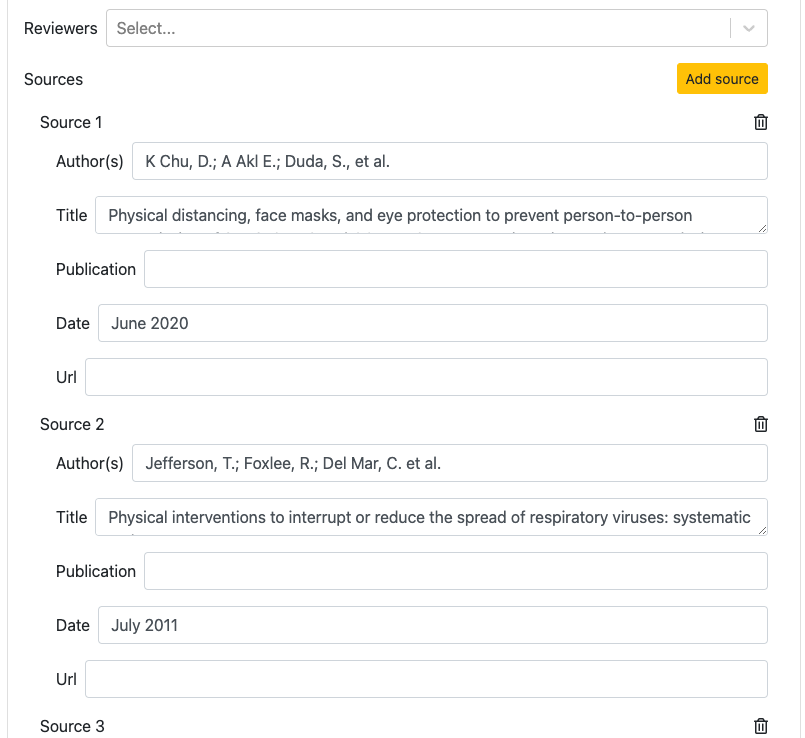
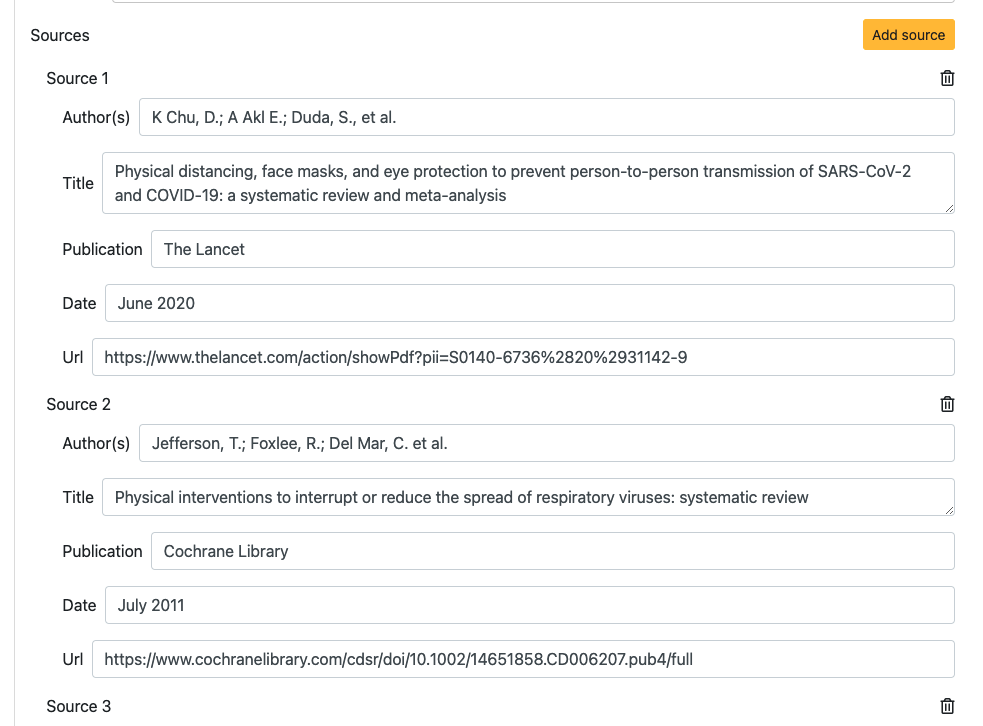
Update checklist and sources

diff --git a/docs/generalTips/trello/reviewing/checklist.rst b/docs/generalTips/trello/reviewing/checklist.rst
@@ -1,23 +1,163 @@
 .. _checklist:
 
 Checklist
-=====================
+=========
 
-Before sending a calculator to review, make sure to **complete all necessary tasks from the checklist**. By doing so, we ensure that all key elements of a calculator are done.
+Before sending a calculator to review, make sure to **complete all necessary tasks on each checklist**. By doing so, we ensure that all key elements of a calculator are completed to our specification.
 
-Most of the tasks are self-explanatory, so here is the list of less obvious ones:
+Please make sure that each requirement is completely fulfilled, as your review will not be checking every single one. If the reviewer does spot a checklist item that hasn't been correctly implemented, they will call out the item and you should fix it. Of course, if you need more help, ask the reviewer.
 
-1. **Mobile device check** — Open the **calculator web page on your mobile device** to check if all the labels are **well-displayed**, you can input values in every field, choose any option from every **Value Select**, and see if any additional HTML output is **legible and fits the screen**. Also, skim the text and make sure all the **equations and pictures displays fine**. 
-2. **Additional text to proofread?** — If you display some text message or the combination of sentences **with customJS**, check this option. You can also mention about all possible calculator outcomes to make the proofreader's life easier.
-3. **VPN check** — if you're using different default metric and imperial units, check this task. One of possible ways to do so:
-   
-  1. Open Opera browser.
-  2. Go to **incognito mode** (``Ctrl`` + ``Shift`` + ``n``).
-  3. Click the *VPN* button on the search bar.
-  4. Connect with the VPN.
-  5. If you're using **metric units by default - set US as the virtual location**, if you're using **imperial units by default - set Europe**.
-  6. Open calculator's web page.
-  7.  Check if everything works as it should.  
-   
-4.  **FAQ** — add **at least 4** Question-Answer pairs (ideally 5-7) according to the :ref:`FAQ guide <faqGuide>`.
-5.  **Name the revision that should be checked "to review"** — In the revisions section of the edit calculator page, :ref:`name the revision <revisionsNameARevision>` you wish your reviewer to assess, "To review" (or include those words).
+Make sure all of the details of each item are correct by clicking on the info icon ℹ to go to the relevant page in the documentation. If an item doesn't apply to your calculator, check it off anyway.
+
+There are four checklists for different aspects of the calculator:
+
+.. contents:: :local:
+  :depth: 1
+
+Calculator checklist
+--------------------
+
+This checklist focuses on creating the calculator correctly on the edit calculator page. Below is each item in the check list with additional comments.
+
+* **Name formatting** – *Only capitalize the first word* – :ref:`ℹ<detailsName>`
+  
+  Properly formatting the name of your calculator is important because it is used on the website as the link text to related calculators.
+
+* **Slug formatting** – :ref:`ℹ<detailsSlug>`
+  
+  Make sure you follow Omni's slug formatting rules.
+
+* **Add specific sources** – Follow these rules → :ref:`ℹ<detailsSources>`
+
+  Add any specific sources that were used in the making of the calculator. There is no need to add general math, physics, etc., sources. Rather, if the calculator is largely based on a particular research paper, then add it as a source. For SciComm calculators, this is particularly important to gain creditability. 
+
+* **Category & subcategory** – *Find the best combination for your calculator* - :ref:`ℹ<detailsCategory>`
+  
+  Look to see if there is a subcategory that fits your calculator rather than setting the category to *Other*.
+
+* **Variables** – *Commonsense units* – *Imperial default value required?* – *Base unit set if value setter used* – *Auto save?*
+  
+  Choose variable units that make sense for how the calculator will be used. If you set any default values and specify an imperial default unit, you also need to set an imperial default value. If you use a value setting on a variable, the base unit needs to be explicitly set (even if default base unit is used). Would it make sense to auto save the value for the next time the user visits (e.g., age, height, etc)?
+
+* **Calculator working and you've checked results against other calculators on the web + commonsense results**
+
+  Check for a range of values your calculator against others on the web (though some of those could be incorrect). Do the results make sense? Are the values produced what you expect?
+
+* **Test(s) added and working properly** – *Check this again just before review* – :ref:`ℹ<tests>`
+
+  Use the tests to double check that any changes you make later to the calculator are still giving valid result. Before submitting the calculator for review, double-check that all tests are still passed.
+
+* **Screenshot** – *One test should be a screenshot* – :ref:`ℹ<testsScreenshot>`
+
+  A screenshot is important as a preview for the embedding feature. Ensure all the calculators values are populated in a screenshot test and set any required calculator options.
+
+* **Imperial units (if used)** – *Check calculator works with imperial units box checked on www* – :ref:`ℹ<buttonsOverwrite>`
+
+  You should check whether the calculator still gives the expected results if viewed from a country that users imperial units.
+
+* **Images have alt text** – :ref:`ℹ<addhtml>`
+
+  All images should have alterative text in case the image can't load, for screen readers and it's good for SEO.
+
+* **CustomJS code** – *No red warnings*
+
+  Resolve all red warnings in your customJS code. Common fixes: Use ``===`` instead of ``==``; expand ``if`` statements with curly brackets; only declare a variable once; use all declared variables; don't use ES6 JavaScript features (note that only the first use of an ES6 is marked with red underlining).
+
+* **Inputs check** – *Experiment inputting zeros, negative numbers, larger and small numbers, etc. Avoid NaN & infinity outputs, crashing of the www page, and console log errors*
+
+  Test your calculator as much as possible before submitting it for review.
+
+
+Text checklist
+--------------
+
+* **Title** – *Main keyword & formatted correctly* – :ref:`ℹ<titleTitle>`
+
+  We want to have a consistent title format for all our calculators.
+
+* **SEO title** - *Usual same as title; not too long* – :ref:`ℹ<titleSEO>`
+
+  Always start with the title, then optionally add another high-traffic keyword after a separator (e.g., a ``-``, ``|``). Not too long though (BB will tell you if it is), otherwise Google will truncate it.
+
+* **Text ready and of suitable length** - *Min 500 words, max 2,000* :ref:`ℹ<textLength>`
+
+  Don't feel you have to write about the subject surrounding the calculator in great detail. Your focus should be on what the calculator does, what is it based on, how to use it, and an example manual calculation. We also have a great number of texts in other calculators that you can link to, to save you repeating content.
+
+* **Grammarly check** – *Review all suggestions to catch errors and improve your text* – :ref:`ℹ<grammarly>`
+
+  Grammarly will underline in red any spelling mistakes or critical errors. Don't forget to also click on the icon in the bottom-right of a text block to see all the Grammarly suggestions on how to improve your writing. You don't have to accept them (sometimes Grammarly misunderstands the text), but at least consider them.
+
+* **Images must have alt text** – *Omni © checkbox ticked for original graphics* – :ref:`ℹ<textEditorImageBlockAltText>`
+
+  All images should have alterative text in case the image can't load, for screen readers and it's good for SEO. Also, if you or the graphics department has created an image, you should tick the Omni © checkbox.
+
+* **Lists formatted correctly** – :ref:`ℹ<textStylingGuideLists>` – *Variable lists* – :ref:`ℹ<equationsAndVariables>`
+
+  Make sure lists are correctly formatted, especially the variable list after an equation.
+
+* **Keywords** – *6 to ~11* – :ref:`ℹ<keywords>` – *Use SEMrush filters when selecting* - :ref:`ℹ<filters>`
+
+  Including the main keyword, aim to have a total of 6 to around 11 keywords. To few and your text will not be attractive to Google. However, too many and the text will be hard to write in a reasonable length. If you find lots of keywords for your calculator, focus on those with the most traffic and use filters to weed out non-relevant keywords.
+
+* **Acronyms expanded correctly** – :ref:`ℹ<textStylingGuideCapitalization>`
+
+  Make sure any acronyms you use are expanded and explained at least once in the text. Note that the expansion doesn't need to be capitalized unless the acronym is a proper noun (the name of something, like NASA).
+
+* **LaTeX equations should follow these rules** → :ref:`ℹ<textEditorFormulaBlockLaTexFormatting>`
+  
+  LaTeX equations should be consistent throughout a single text. They should never be wider than the mobile preview in the BB text editor. Click the link above for the full set of LaTeX formatting rules.
+
+* **Internal links** – 4+ – *If a calculator is not published (grey in color), check if it will be soon* – :ref:`ℹ<internalLinks>`
+
+  Include at least 4 internal links to other calculators. Generally the more the better, but consider if the user would expect to end up where you send them.
+
+* **Example calculations in the text must agree with the calculator** – *Any discrepancies will confuse the user*
+
+  When presenting a manually calculated example of the calculator, make sure that the answer agrees with what the calculator gives.
+
+* **Global SEO score must be 5/5** – *Unless our SEO scorer isn't smart enough* – :ref:`ℹ<globalSEO>`
+
+  Please try to get a perfect score in the global SEO score tab. However, if you feel that the SEO scorer isn't giving you the proper credit, you may add a comment to the card explaining the issue to the reviewer.
+
+* **Check for formatting errors** – *Look at www page and read through the whole text* – :ref:`ℹ<textStylingGuide>`
+
+  View the text in the final www page format and check for any formatting issues. Is everything as you expect? Also, read through the text slowing to check for any other issues. A nice way to do this is by using a text-to-speech program or browser extension. That way, any mistakes will sound bad when read aloud.
+
+FAQ checklist
+-------------
+
+* **At least four questions**
+
+  The more a calculator has, the better the chances that Google will select one as a featured snippet or FAQ.
+
+* **At least one instruction-type answer** – :ref:`ℹ<faqStructure>`
+
+  Google really likes instruction-based answers to an FAQ.
+
+* **At least one question with a specific answer** – *e.g, "What is 10% of 30?"* – :ref:`ℹ<faqStructure>`
+
+  Google likes an FAQ that has a specific answer.
+
+* **Answer/keyword in the first sentence** – :ref:`ℹ<faqStructure>`
+
+  Ideally you want to give the answer to the question (or the keyword) as soon as you can.
+
+* **Within word and item minimums & maximums** – :ref:`ℹ<faqWordCount>`
+
+  Check that you are with the word and item minimum and maximums mentioned in the link above.
+
+* **No images, no links, no LaTeX**
+
+  Google doesn't support image, links or LaTeX in FAQ answers. You should also use ``×`` as a multiplication sign, instead of ``*``.
+
+* **Question and answers are written how they'd be spoken and prefer lists over paragraphs** – :ref:`ℹ<faqStructure>`
+
+  FAQ content is often used for Google Assistant answers and Google prefers list-based answers over paragraphs.
+  
+Review process checklist
+------------------------
+
+* Add the **website URL** of your calculator (not BB URL) to the Trello card description.
+* Name the revisions (calculator & text) that should be reviewed as "to review".
+* Click the 'First review' button and **add** your reviewer to the card.
+* After publication, **add** at least 3 links in old calculators - :ref:`ℹ<internalLinks>`

diff --git a/docs/generalTips/calculatorStructure/details.rst b/docs/generalTips/calculatorStructure/details.rst
@@ -86,12 +86,14 @@ Reviewers
 
 Reviewers and proofreaders should add their name to this field. Your name will be added underneath the author list and appear as "Reviewed by Your Name". This will help us show Google that we are a website that takes quality seriously.
 
+.. _detailsSources:
+
 Sources
 -------
 
 Here you can add details of any research papers or other external sources that the calculator is based upon. This is good for users and Google to increase own trustworthiness. You only need to add sources where you've directly based the calculator on one or more particular sources. There is no need to add sources to all calculators or go looking for sources.
 
-.. _detailsSources:
+.. _detailsSourcesEg:
 .. figure:: details-sources.png
   :width: 100%
   :alt: example of the sources section of the edit calculator page
@@ -104,17 +106,19 @@ Click the **Add source** button and a form will appear with the following input 
 * Authors(s)
    * List the authors of the source.
 * Title
-   * The title of the source (required)
+   * The title of the source (required).
 * Publication
-   * The name of the publication, journal, website, etc.
+   * The name of the publication, journal, website, etc. **DO NOT** enter a URL here. It will look ugly and the user can't click on it.
 * Date
-   * Publication date, but it's just a string. Use a date format that isn't confusing.
+   * Publication date, but the input field is a string. Use a date format that isn't confusing (e.g., June 2021).
 * Url
-   * Link to the publication, if it is available online.
+   * Link to the publication, if it is available online. **DO NOT** link to an external file store (e.g., Dropbox).
 
 If you have more than one source, click the **Add source** button again.
 
 To delete a source, click on the trash can icon.
+
+.. _detailsCategory:
 
 Category and subcategory
 ------------------------

diff --git a/docs/generalTips/calculatorStructure/tests.rst b/docs/generalTips/calculatorStructure/tests.rst
@@ -1,7 +1,7 @@
 .. _tests:
 
 Tests
-=====================
+=====
 
 The **Tests** section allows you to set-up tests for your calculator. This is useful for double checking that your calculator gives the correct result and to check that any future changes you make still give the same correct result.
 
@@ -39,6 +39,8 @@ Specifying values in different units
 If you want to give any values in units that are not in the default unit of the variable, you can use the command **Select unit**. Then choose the variable and the unit you would like to use.
 
 Then when you specify the **Input/Expect** value, the number should be given in the unit you selected above.
+
+.. _testsScreenshot:
 
 Taking a screenshot
 -------------------

diff --git a/docs/generalTips/textStructure/editCalculatorText/title.rst b/docs/generalTips/textStructure/editCalculatorText/title.rst
@@ -12,6 +12,8 @@ Title and SEO title
 
 The **title** and **SEO title** input fields are two of the most important settings on the text editor page. Let's look at each one in detail.
 
+.. _titleTitle:
+
 Title
 -----
 
@@ -30,6 +32,8 @@ Here are some points to considered when choosing a title for your calculator:
 *Examples of good titles ✔:* ROI Calculator – Return on Equity, Pressure at Altitude Calculator, Length Converter.
 
 *Examples of bad titles ❌:* Return on Equity (ROI) calculator, Pressure at altitude, Length Converter Calculator.
+
+.. _titleSEO:
 
 SEO title
 ---------

diff --git a/docs/generalTips/textStructure/editCalculatorText/textEditor/formulaBlock.rst b/docs/generalTips/textStructure/editCalculatorText/textEditor/formulaBlock.rst
@@ -67,6 +67,8 @@ A common situation is that you are working through a calculation and you would l
 
 The ``\\`` starts a new line and the ampersand ``&`` tells LaTeX that we want to align the two formulas on the equals sign. If the equations are too close together, you can add an extra blank line by adding another ``\\`` at the end of an equation.
 
+.. _textEditorFormulaBlockLaTexFormatting:
+
 LaTeX formatting rules
 ----------------------
 

diff --git a/docs/generalTips/calculatorPage/buttons.rst b/docs/generalTips/calculatorPage/buttons.rst
@@ -30,6 +30,8 @@ Page age
 
 After the list of links, information about **when the page was generated** is shown. This is so you know whether you are looking at a version of the calculator that includes the changes you just made, or an old version. Try **reloading the page** to get the latest version (this can take ~10 minutes).
 
+.. _buttonsOverwrite:
+
 Overwrite locale data
 ---------------------
 

diff --git a/docs/generalTips/textStructure/editCalculatorText/textEditor/imageBlock.rst b/docs/generalTips/textStructure/editCalculatorText/textEditor/imageBlock.rst
@@ -35,6 +35,8 @@ Click on the three-dot icon to display the options menu for an image block, whic
 .. note::
   **Please only use an image block to add an image to your text.** Use of Markdown and HTML have been deprecated.
 
+.. _textEditorImageBlockAltText:
+
 Alt text
 --------
 

diff --git a/docs/generalTips/textStructure/textStylingGuide/equations.rst b/docs/generalTips/textStructure/textStylingGuide/equations.rst
@@ -13,7 +13,7 @@ The variables should be listed as **bullet points**, with the variables also sur
 
 .. _equations_example1:
 .. figure:: equations_example1.jpg
-   :scale: 70%
+   :scale: 80%
    :alt: An ideal equation
    :align: center
 

diff --git a/docs/generalTips/semrush/keywordMagicTool/filters.rst b/docs/generalTips/semrush/keywordMagicTool/filters.rst
@@ -1,7 +1,7 @@
 .. _filters:
 
 Filters
-=====================
+=======
 
 .. _semrushFilters:
 .. figure:: semrush_filters.png

diff --git a/docs/generalTips/textStructure/textStylingGuide/capitalisation.rst b/docs/generalTips/textStructure/textStylingGuide/capitalisation.rst
@@ -1,3 +1,6 @@
+.. _textStylingGuideCapitalization:
+
+
 Capitalization
 ==============
 

diff --git a/docs/generalTips/textStructure/textStylingGuide/lists.rst b/docs/generalTips/textStructure/textStylingGuide/lists.rst
@@ -1,3 +1,6 @@
+.. _textStylingGuideLists:
+
+
 Lists
 =====
 

diff --git a/docs/generalTips/textStructure/faq/wordCount.rst b/docs/generalTips/textStructure/faq/wordCount.rst
@@ -1,3 +1,5 @@
+.. _faqWordCount:
+
 Word count
 ==========
 
